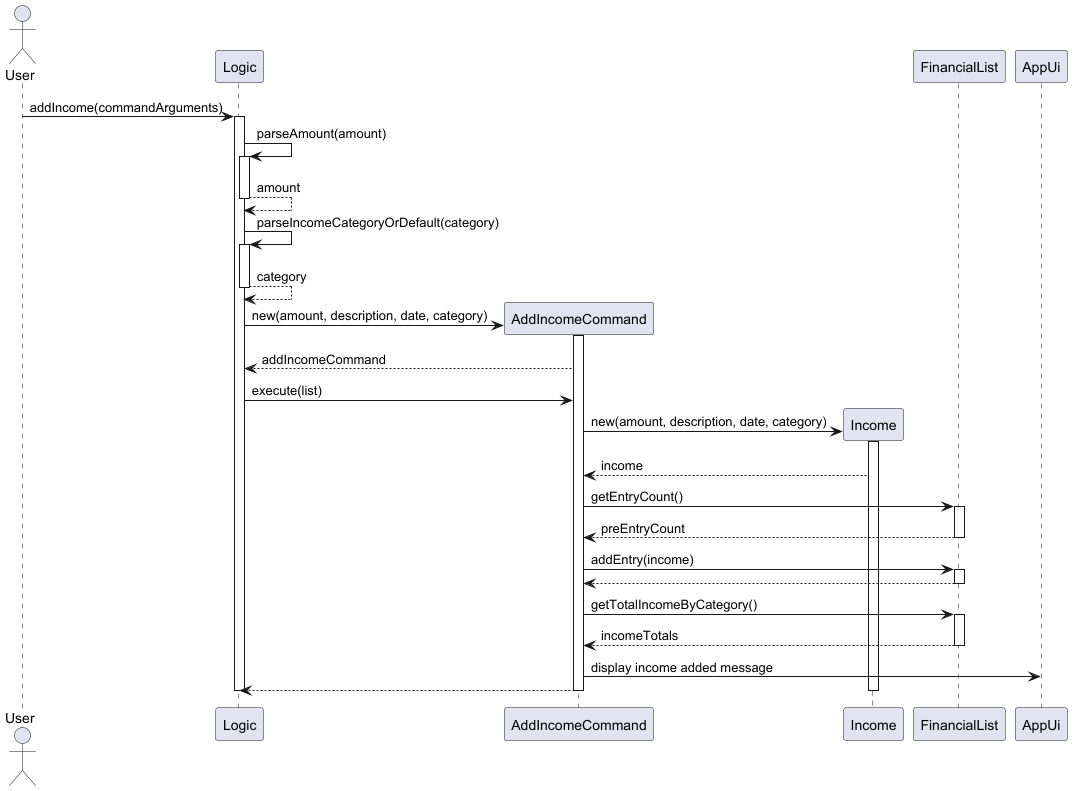
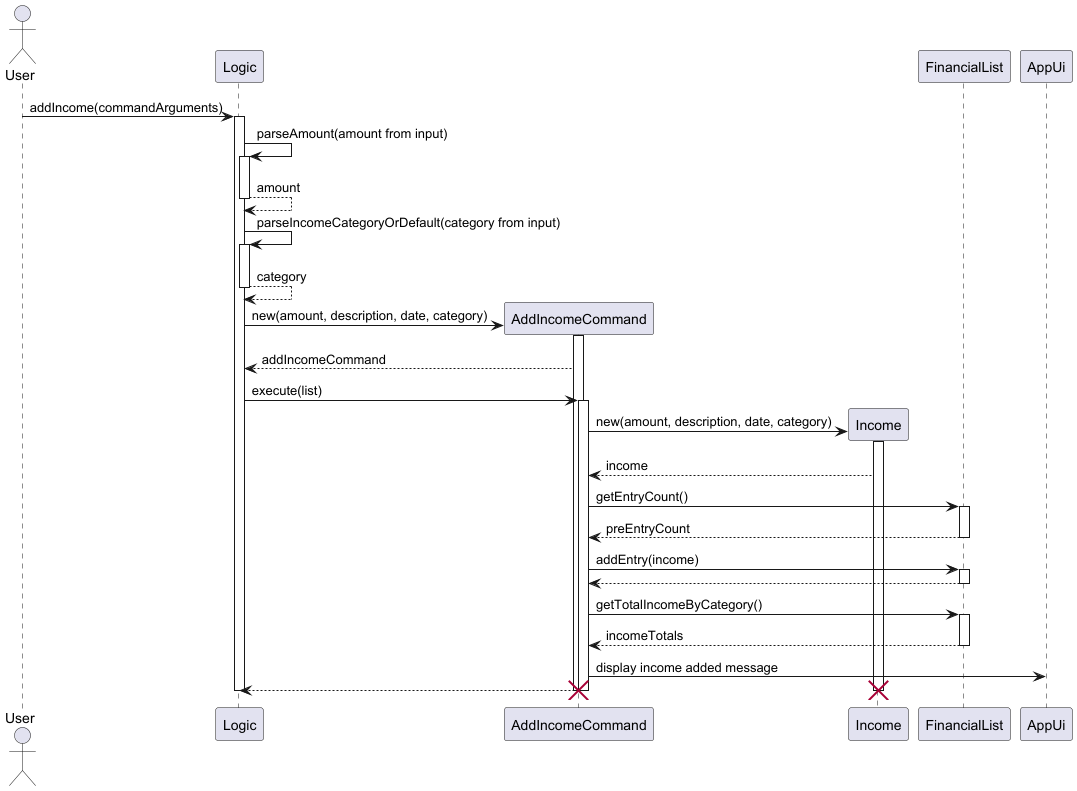
Update Edit entry portion of DG Minor edit to add entry portion

diff --git a/docs/DeveloperGuide.md b/docs/DeveloperGuide.md
@@ -385,8 +385,8 @@ following arguments:
   the current date is used. An exception occurs if this argument is used but the value is left blank.
 - `/c`: Category of the transaction, defaulting to UNCATEGORIZED if unspecified or invalid.
 
-Below is a sequence diagram of the user adding an income. A similar sequence happens when an
-expense is added. Note that the sequence within the `Logic` class has been simplified.
+Below is a simplified sequence diagram of the user adding an income. 
+A similar sequence happens when an expense is added.
 
 ![addIncomeCommand](UML/addIncomeCommandSequence.png)
 
@@ -435,21 +435,25 @@ The `EditEntryCommand` class has the following attributes:
 - `category`: `Enum<?>` New category of the transaction.
 
 The `EditEntryCommand` class has the following method:
-- `execute`: Edits the entry according to the arguments inputted.
+- `execute` Edits the entry according to the arguments inputted.
 
 <ins>Implementation</ins>
 
-The user invokes the command to add entries by entering the following command:
+The user invokes the command to edit entries by entering the following command:
 `edit INDEX [/des DESCRIPTION] [/a AMOUNT] [/d DATE] [/c CATEGORY]`.
 
 This is parsed by the InputParser, returning a HashMap `commandArguments`, containing the
 following arguments:
-- `argument`: Represents the index of the entry in the full financial list.
+- `argument` Represents the index of the entry in the full financial list.
   This is a compulsory argument.
-- `/des`: Represents the description of the transaction. This is an optional argument.
-- `/a`: Represents the amount of money used in the transaction. This is an optional argument.
-- `/d`: Represents the date on which the transaction occurred. This is an optional argument.
-- `/c`: Represents the category used in the transaction. If an invalid category is provided, the entry will default to UNCATEGORIZED. This is an optional argument.
+- `/des` Represents the description of the transaction. This is an optional argument.
+- `/a` Represents the amount of money used in the transaction. This is an optional argument.
+- `/d` Represents the date on which the transaction occurred. This is an optional argument.
+- `/c` Represents the category used in the transaction. If an invalid category is provided, the entry will default to UNCATEGORIZED. This is an optional argument.
+
+Below is a simplified sequence diagram of the user editing an entry.
+
+![editEntryCommand](UML/editEntryCommandSequence.png)
 
 ### Listing Entries
 <ins>Overview</ins>
